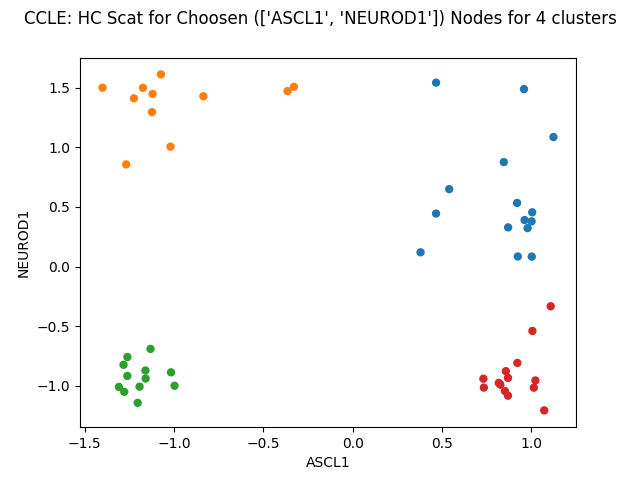
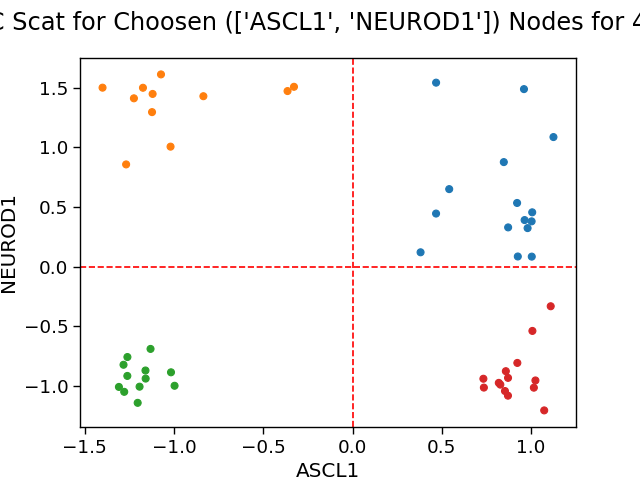
Edits to functions with seaborn

diff --git a/Funcs/k_means.py b/Funcs/k_means.py
@@ -7,6 +7,7 @@ from sklearn.metrics import silhouette_score
 from sklearn.metrics import silhouette_samples
 import os
 from pathlib import Path
+import seaborn as sns
 
 def K_analysis(Data,title,folder,**kwargs):
 
@@ -62,11 +63,11 @@ def K_analysis(Data,title,folder,**kwargs):
         repl_avg.append(sil_avg)
 
     # Silhoutte score #
-
+    sns.set_context("paper", font_scale=1.5)
     plt.boxplot(repl_avg[0:8],labels=np.array(range(2,10)),showmeans=True,notch=1,sym='')
     plt.ylabel("Silhoutte score")
     plt.xlabel("K values")
-    plt.suptitle(title+": "+"Silhoutte score for Choosen ({}) nodes".format(Nodes))
+    # plt.suptitle(title+": "+"Silhoutte score for Choosen ({}) nodes".format(Nodes))
     plt.savefig(Path(folder,title+"_"+"Silhoutte_score_({})_nodes.png".format(len(Nodes))), format='png')
     plt.clf()
 
@@ -78,7 +79,7 @@ def K_analysis(Data,title,folder,**kwargs):
     plt.errorbar(K,distortions,yerr=vars)
     plt.ylabel("Distortions")
     plt.xlabel("K values")
-    plt.suptitle(title+": "+'Elbow plot for Choosen ({}) nodes'.format(len(Nodes)))
+    # plt.suptitle(title+": "+'Elbow plot for Choosen ({}) nodes'.format(len(Nodes)))
     plt.savefig(Path(folder,title+"_"+'Elbow_plot_({})_nodes.png'.format(len(Nodes))), format='png')
     plt.clf()
 
@@ -88,6 +89,6 @@ def K_analysis(Data,title,folder,**kwargs):
     plt.plot(K,diff,'rx-')
     plt.ylabel("Difference in Distortions")
     plt.xlabel("K values")
-    plt.suptitle(title+": "+'Differences in Distortions for Choosen ({}) nodes'.format(len(Nodes)))
+    # plt.suptitle(title+": "+'Differences in Distortions for Choosen ({}) nodes'.format(len(Nodes)))
     plt.savefig(Path(folder,title+"_"+'Diff_Distortions_({})_nodes.png'.format(len(Nodes))), format='png')
     plt.clf()

diff --git a/Funcs/Umap.py b/Funcs/Umap.py
@@ -7,11 +7,12 @@ import pickle, os
 from pathlib import Path
 from sklearn.cluster import KMeans
 from sklearn.cluster import AgglomerativeClustering,MeanShift
+import seaborn as sns
 
 def UMAP_analysis(Data, title, folder, **kwargs):
 
     n_neighbors = 4
-    trial = 3
+    trial = 5
 
     # dimensions which are to be plotted
     TADA = kwargs['Dims']
@@ -56,8 +57,10 @@ def UMAP_analysis(Data, title, folder, **kwargs):
         embedding = reducer.fit_transform(Scaled_data)
 
         for node in Nodes:
+            sns.set_context("paper", font_scale=1.5)
             plt.scatter(embedding[:, 0],embedding[:, 1],c = label_data[node],cmap = 'RdYlGn',s=10)
-            plt.title(title+': UMAP_{}_Nodes={}_Exp:{}_n={}'.format(str(j),TADA,node,str(n_neighbors)))
+            # plt.title(title+': UMAP_{}_Nodes={}_Exp:{}_n={}'.format(str(j),TADA,node,str(n_neighbors)))
+            plt.title('{}'.format(node))
             plt.colorbar()
             plt.savefig(Path(folder,"UMAP",title+'_UMAP_{}_Nodes={}_Exp{}_n={}.png'.format(str(j),str(len(TADA)),node,str(n_neighbors))), format='png')
             plt.close()

diff --git a/Funcs/Hier_Scattering.py b/Funcs/Hier_Scattering.py
@@ -9,11 +9,12 @@ from sklearn.cluster import MeanShift
 import sklearn.metrics as sm
 import os
 from pathlib import Path
+import seaborn as sns
 
 def Hier_Scat(Data, title, folder, **kwargs):
 
     ## Perform Agglomerative for N clusters ##
-    N = 3
+    N = 5
     Nodes = kwargs['Dims']
     if Nodes == ['']:
         NODES = []
@@ -75,9 +76,12 @@ def Hier_Scat(Data, title, folder, **kwargs):
         X = np.array(scaled_data.loc[pnodes[0]])
         Y = np.array(scaled_data.loc[pnodes[1]])
         fig , ax = plt.subplots()
+        sns.set_context("paper", font_scale=1.5)
         ax.scatter(X, Y, s = 25, c = label_color)
         ax.set_xlabel(pnodes[0])
         ax.set_ylabel(pnodes[1])
+        plt.axvline(x=0,linestyle='--',c = 'r')
+        plt.axhline(y=0,linestyle='--',c = 'r')
         plt.suptitle(title+": "+"HC Scat for Choosen ({}) Nodes for {} clusters".format(Nodes,str(N)))
         plt.savefig(Path(folder,title+"_"+"HCScAT_({})_Nodes_{}clus.png".format(len(Nodes),str(N))), format='png')
         plt.clf()

diff --git a/Funcs/Hierarcheal.py b/Funcs/Hierarcheal.py
@@ -9,6 +9,7 @@ from sklearn.cluster import MeanShift
 import sklearn.metrics as sm
 import os
 from pathlib import Path
+import seaborn as sns
 
 def Hier_analysis(Data, title, folder, **kwargs):
 
@@ -32,8 +33,9 @@ def Hier_analysis(Data, title, folder, **kwargs):
     data = Data.loc[Nodes]
     data = data.astype(float)
     scaled_data = preprocessing.scale(data.T)
-
-    dend1 = dendrogram(linkage(scaled_data,method='ward'),leaf_rotation=90,leaf_font_size=8)
+    sns.set_context("paper", font_scale=1.5)
+    dend1 = dendrogram(linkage(scaled_data,method='ward'),
+                       leaf_rotation=90,color_threshold=(5))
     plt.suptitle(title+": "+"Dendogram for Choosen ({}) Nodes".format(Nodes))
     plt.savefig(Path(folder,title+"_"+"Dendogram_({})_Nodes.png".format(len(Nodes))), format='png')
-    plt.clf()
+    plt.close()

diff --git a/Funcs/ScatterComp.py b/Funcs/ScatterComp.py
@@ -8,6 +8,7 @@ import os, pickle
 from matplotlib import cm
 from matplotlib.colors import Normalize
 from scipy.interpolate import interpn
+import seaborn as sns
 
 def ScatComp(Data, title, folder,**kwargs):
 
@@ -50,6 +51,7 @@ def ScatComp(Data, title, folder,**kwargs):
                 clr[np.logical_and(Y>0,Z>0)] = 3
             
                 fig , ax = plt.subplots()
+                sns.set_context("paper", font_scale=1.5)
                 plt.suptitle(title+": Scatter plot of {} and {}.png".format(pnodes[0],pnodes[1]))
                 ax.scatter(X, Y, s = 25, c = clr)
                 ax.set_xlabel(pnodes[0])

diff --git a/Funcs/bargraph.py b/Funcs/bargraph.py
@@ -7,6 +7,7 @@ from sklearn.cluster import AgglomerativeClustering
 from sklearn.cluster import KMeans
 import os
 from pathlib import Path
+import seaborn as sns
 
 def Hier_BarGraph(Data, title, folder, **kwargs):
 
@@ -48,6 +49,7 @@ def Hier_BarGraph(Data, title, folder, **kwargs):
         hc_labels_n.append(np.array(hc_n.labels_))
 
     fig, ax = plt.subplots()
+    sns.set_context("paper", font_scale=1.5)
 
     for h in range(2,7):
 
